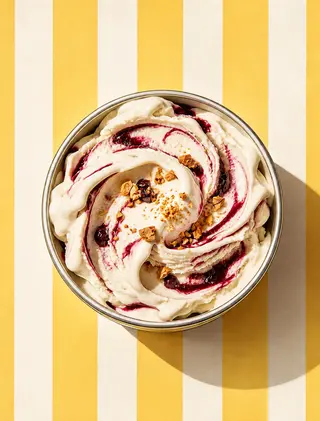
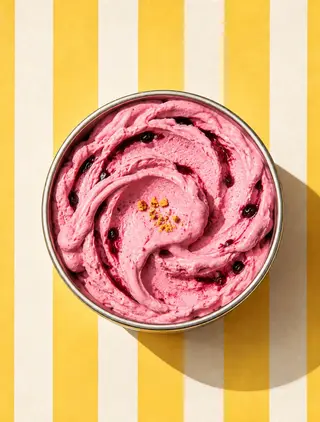
Nieuwe foto voor Croccantino all'Amarena

diff --git a/src/data/beeldmaten.ts b/src/data/beeldmaten.ts
@@ -54,5 +54,5 @@ export const beeldmaten: Record<string, [number, number]> = {
   '/media/bak-limone.jpg': [1094, 1438],
   '/media/bak-melone-menta.jpg': [1094, 1438],
   '/media/bak-ananas-rosmarino.jpg': [1093, 1438],
-  '/media/bak-croccantino.jpg': [1093, 1438],
+  '/media/bak-croccantino.jpg': [1092, 1440],
 }
